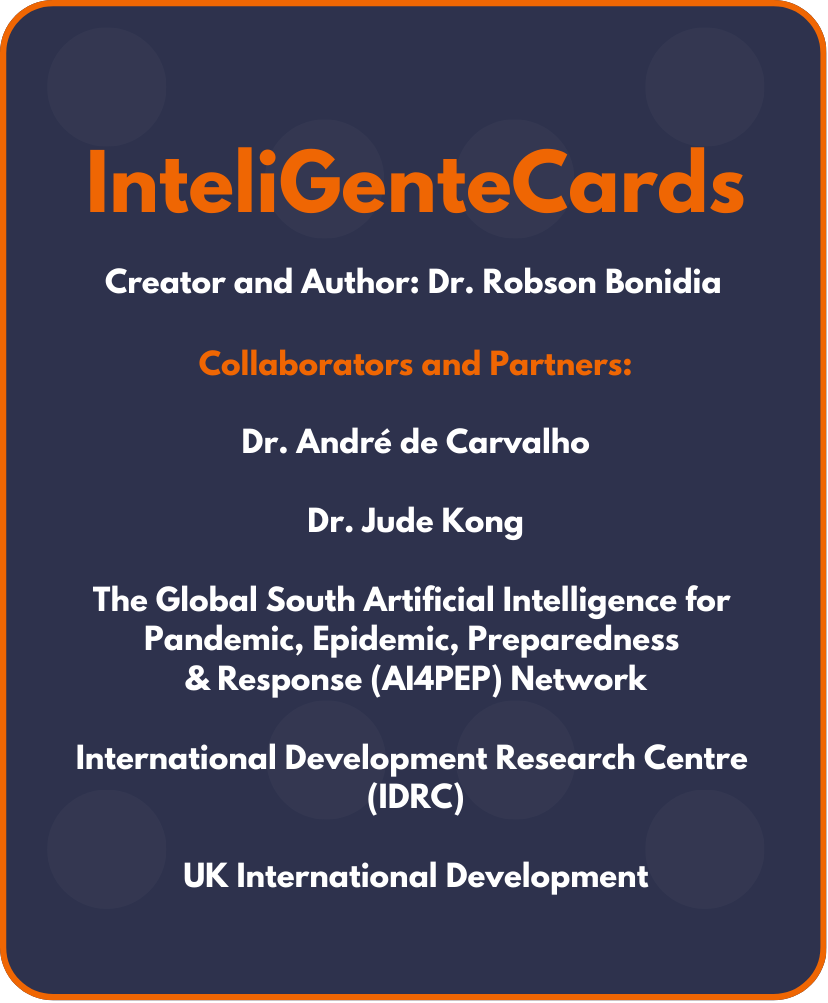
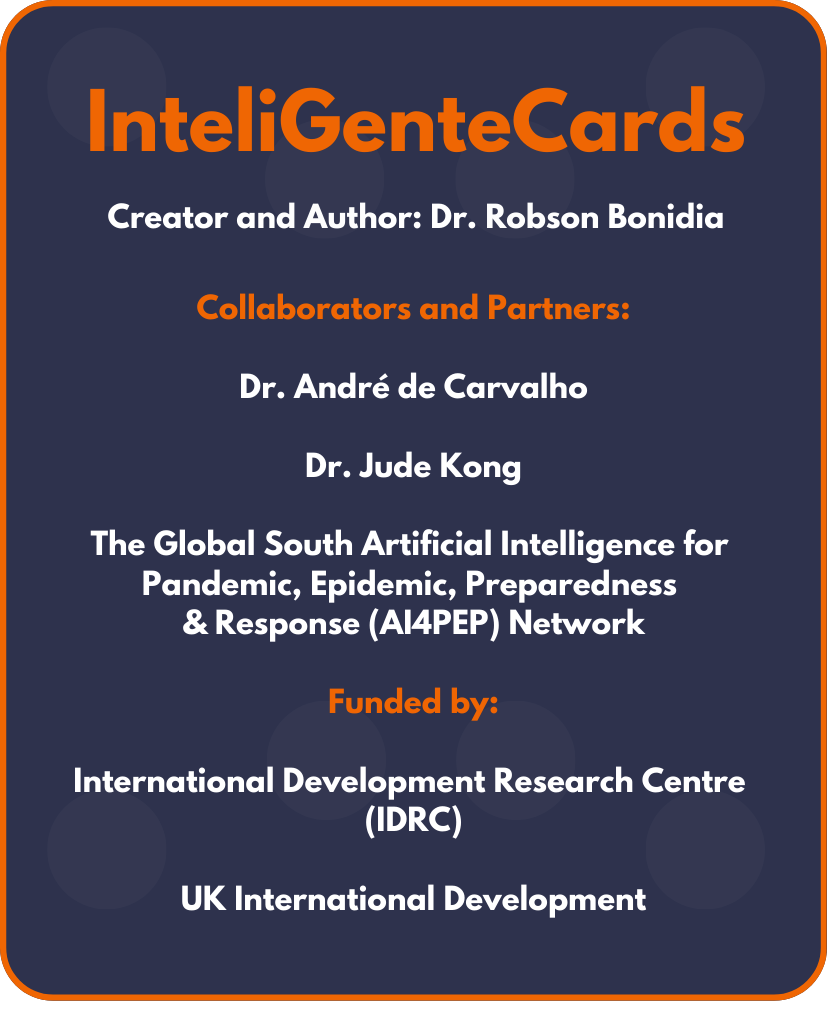
News

diff --git a/InteliGenteCards-en.html b/InteliGenteCards-en.html
@@ -56,8 +56,8 @@
             <li><a class="nav-link scrollto active" href="index.html">Home</a></li>
             <li><a class="nav-link scrollto" href="#about">About</a></li>
             <li><a class="nav-link scrollto" href="https://form.jotform.com/243505877643667">Download</a></li>
-            <li><a class="nav-link scrollto" href="#faq">FAQ</a></li>
             <li><a class="nav-link scrollto" href="#supporters">Supporters</a></li>
+            <li><a class="nav-link scrollto" href="#faq">FAQ</a></li>
             <li><a class="nav-link scrollto" href="#comentario">Comments</a></li>
             
           </ul>
@@ -215,7 +215,7 @@
               <img src="assets/figures/idrc_logo_full_name_wordmark.jpg" class="img-fluid" alt="Logo 3">
             </div>
             <div class="col-lg-2 col-md-3 col-sm-4 col-6 supporter-item">
-              <img src="assets/figures/foreign-and-commonwealth-office.png" class="img-fluid" alt="Logo 4">
+              <img src="assets/figures/uk-international-development-2.png" class="img-fluid" alt="Logo 4">
             </div>
           </div>
         </div>
@@ -244,6 +244,15 @@
                   <li><i class="ri-check-double-line"></i> Discuss ethical dilemmas applicable to AI.</li>
                   <li><i class="ri-check-double-line"></i> Explore case studies based on real-life situations.</li>
                 </ul>
+              </div>
+            </li>
+
+            <li>
+              <div data-bs-toggle="collapse" class="collapsed question" href="#faq8">Who are the target users for InteliGenteCards?<i class="bi bi-chevron-down icon-show"></i><i class="bi bi-chevron-up icon-close"></i></div>
+              <div id="faq8" class="collapse" data-bs-parent=".faq-list">
+                <p style="text-align:justify;line-height:2.0">
+                  InteliGenteCards is designed for a diverse audience, making it a versatile tool for anyone interested in exploring the principles and practices of responsible Artificial Intelligence (AI). Users include educators looking to introduce or deepen discussions about ethical and social AI in their classrooms, students curious about real-world AI applications, and professionals seeking innovative ways to approach problem-solving in AI. The tool encourages collaboration, creativity, and inclusivity, making it suitable for people from various backgrounds, regardless of their technical expertise.
+                </p>
               </div>
             </li>
 
